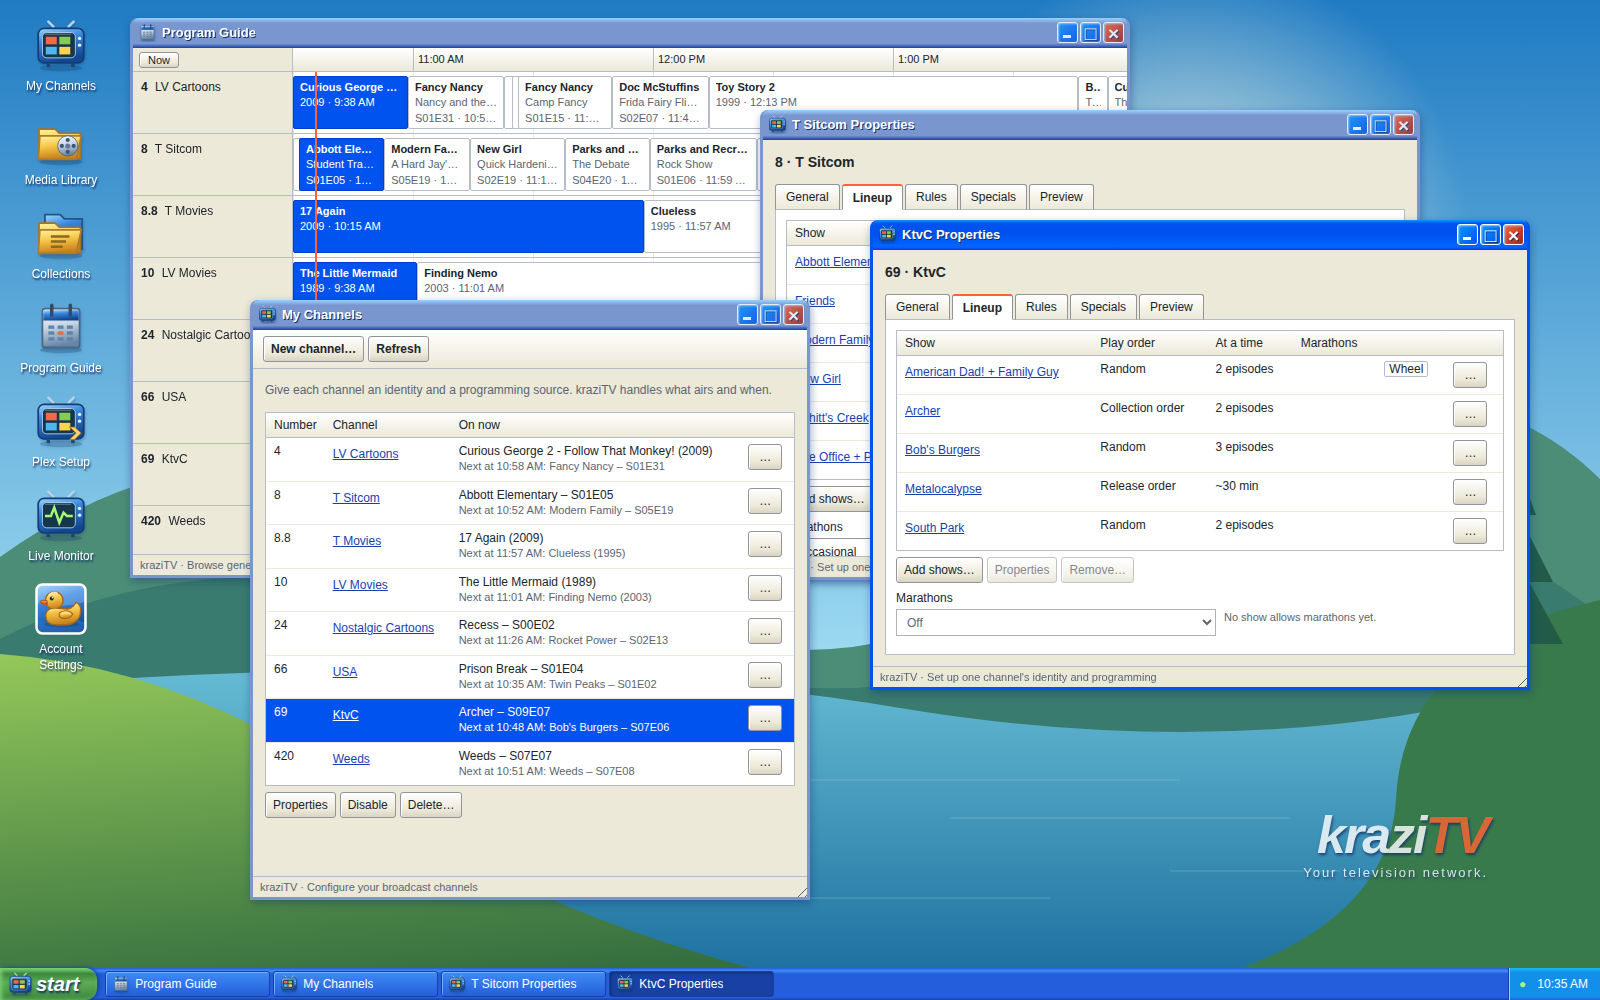
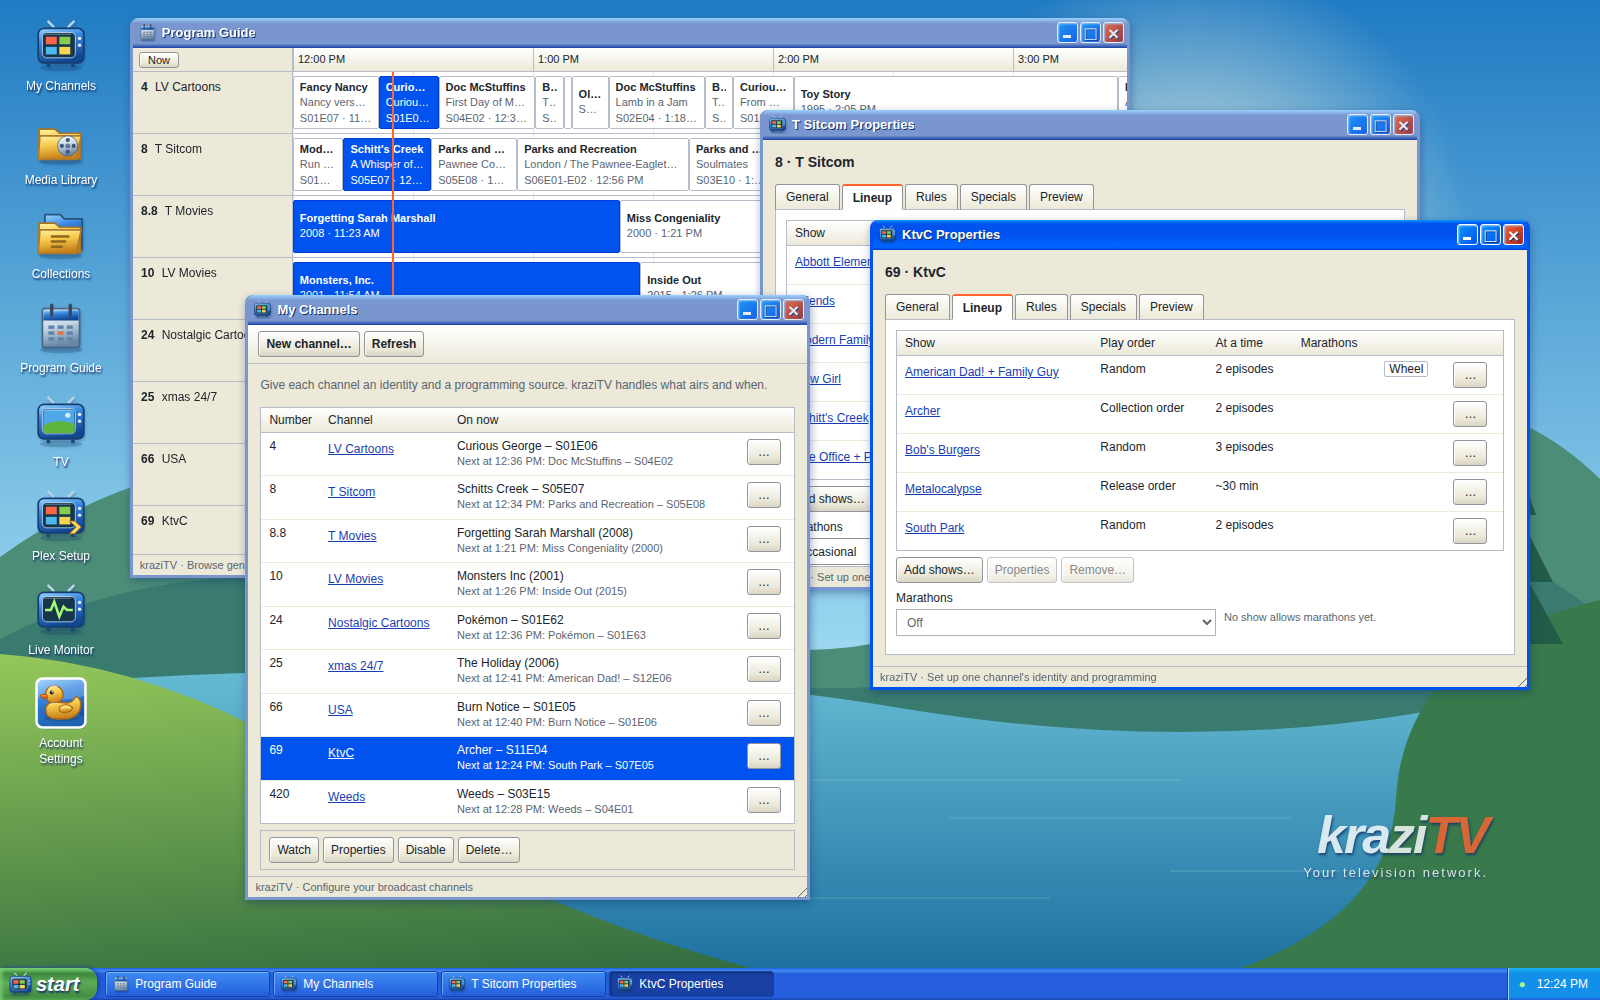
docs(readme): run the published image and tell the truth about TV and scans
README and the running guide run ghcr.io/ridloncmr/krazitv:latest, say TV
and the scan prompt exist and collections are suggested, drop stale limits,
and set PUBLIC_BASE_URL beside HOST for from-source installs. The four
screenshots are recaptured with TV on the desktop. Completes POLISH-016.

diff --git a/README.md b/README.md
@@ -26,8 +26,8 @@ and kraziTV keeps programming them for as long as it runs.
 - **Specials at exact times.** Book a movie for 8:00 PM Friday. Regular
   programming wraps up cleanly before it starts.
 - **Your library, understood.** With a free TMDB key, kraziTV recognizes your
-  shows, seasons, and episodes from file and folder names, and builds
-  collections for every series, franchise, and genre automatically.
+  shows, seasons, and episodes from file and folder names, and suggests a
+  collection for every series, franchise, and genre. Keep the ones you want.
 - **A full guide in Plex.** kraziTV shows up in Plex as a TV tuner with a
   program guide, so it works on every TV, phone, and tablet Plex does.
 - **One stream per channel.** Everyone watching a channel shares the same
@@ -37,13 +37,13 @@ and kraziTV keeps programming them for as long as it runs.
 
 Every channel's next day, at a glance:
 
-![The Program Guide, showing eight channels' schedules](docs/images/guide.png)
+![The Program Guide, showing every channel's schedule](docs/images/guide.png)
 
 Shows, play order, and rules, each in its own Properties window:
 
 ![A show's properties over a channel's lineup, with another channel's rules behind](docs/images/programming.png)
 
-Scan your folders and let kraziTV sort them into collections:
+Scan your folders and keep the collections kraziTV suggests:
 
 ![Media Library, the automatic Collections, and one collection's members](docs/images/library.png)
 
@@ -52,24 +52,25 @@ Scan your folders and let kraziTV sort them into collections:
 kraziTV runs anywhere Docker does:
 
 ```bash
-docker build -t krazitv .
 docker run -d --name krazitv -p 3000:3000 \
   -v krazitv-data:/data \
   -v /path/to/your/media:/media:ro \
   -e PUBLIC_BASE_URL=http://192.168.1.10:3000 \
   -e KRAZITV_PROGRAMMING_TIMEZONE=America/New_York \
-  krazitv
+  ghcr.io/ridloncmr/krazitv:latest
 ```
 
 Replace `192.168.1.10` with your server's address, open it in a browser, and
 create your account. Then:
 
-1. **Media Library:** add `/media` and scan it.
+1. **Media Library:** add `/media`, and scan it when kraziTV offers.
 2. **My Channels:** create a channel and add shows to its lineup.
 3. **Plex Setup:** copy the two addresses into Plex's **Live TV & DVR**
    settings.
 
 That's it. Your channels are in Plex Live TV.
+
+Prefer to build kraziTV from source? See [CONTRIBUTING.md](CONTRIBUTING.md).
 
 The [setup guide](docs/knowledge_base/running-krazitv.md) covers running
 without Docker, connecting Plex step by step, and every setting.
@@ -79,7 +80,7 @@ without Docker, connecting Plex step by step, and every setting.
 kraziTV is young and actively developed. Today:
 
 - It works with **Plex**. Jellyfin support is planned.
-- You watch through Plex. Watching in the browser is planned.
+- Watch in Plex, or in the browser with the TV program.
 - Every channel is re-encoded to 1080p H.264, so watching uses some CPU.
 - It is meant for a **home network**. Anyone who can reach it can watch its
   channels, so don't expose it to the internet.

diff --git a/docs/knowledge_base/running-krazitv.md b/docs/knowledge_base/running-krazitv.md
@@ -5,16 +5,17 @@ README's quick start is the short version.
 
 ## Install With Docker
 
-The image includes kraziTV, its web app, and FFmpeg.
+The image includes kraziTV, its web app, and FFmpeg. Every kraziTV release
+publishes it to the GitHub Container Registry as
+`ghcr.io/ridloncmr/krazitv`.
 
 ```bash
-docker build -t krazitv .
 docker run -d --name krazitv -p 3000:3000 \
   -v krazitv-data:/data \
   -v /path/to/media:/media:ro \
   -e PUBLIC_BASE_URL=http://192.168.1.10:3000 \
   -e KRAZITV_PROGRAMMING_TIMEZONE=America/New_York \
-  krazitv
+  ghcr.io/ridloncmr/krazitv:latest
 ```
 
 - Set `PUBLIC_BASE_URL` to the address of the machine running kraziTV, and
@@ -26,6 +27,9 @@ docker run -d --name krazitv -p 3000:3000 \
 - Data lives in the `/data` volume. The server runs as the image's `node`
   user (uid 1000), so a host folder mounted there must be writable by it.
 - Mount media read-only. kraziTV never changes media files.
+- To build the image yourself, run `docker build -t krazitv .` in a checkout
+  and use `krazitv` as the image name. [CONTRIBUTING.md](../../CONTRIBUTING.md)
+  covers working from source.
 
 ## Install From Source
 
@@ -43,8 +47,10 @@ npm start --workspace @krazitv/server
 
 kraziTV serves the web app and everything else on one port, by default
 `http://127.0.0.1:3000`
-([ADR 0019](../adrs/0019-same-origin-web-app-and-container.md)). Set
-`HOST=0.0.0.0` to reach it from other devices.
+([ADR 0019](../adrs/0019-same-origin-web-app-and-container.md)). To reach it
+from other devices, set `HOST=0.0.0.0` and set `PUBLIC_BASE_URL` to the
+address they use, such as `http://192.168.1.10:3000`. kraziTV only accepts
+changes from that address.
 
 ## First Steps
 
@@ -57,7 +63,9 @@ kraziTV serves the web app and everything else on one port, by default
 4. In **My Channels**, create a channel and add shows to its **Lineup**.
    Add **Rules** for times and seasons and **Specials** for exact times.
 5. Check **Program Guide** to see what will air.
-6. Open **Plex Setup** for the two addresses Plex needs.
+6. Open **TV** to watch a channel in the browser. **Watch** in My Channels,
+   or a channel's name in the Program Guide, opens TV on that channel.
+7. Open **Plex Setup** for the two addresses Plex needs.
 
 ## Connect Plex
 
@@ -119,6 +127,4 @@ replaces the password, and logs every browser out. kraziTV may keep running.
 ## Current Limits
 
 - Plex only; Jellyfin is planned.
-- No playback in the browser yet.
 - Every channel is re-encoded to 1080p, 30 fps, H.264 with AAC audio.
-- If FFmpeg fails mid-program, viewers' streams end and they must tune again.

diff --git a/docs/implementation_plan/004-release-polish/0003-release-readiness.md b/docs/implementation_plan/004-release-polish/0003-release-readiness.md
@@ -2,12 +2,12 @@
 
 <!-- plan-progress:start: generated by `npm run plan:status` from ticket Status blocks; do not edit -->
 
-Progress: 10 of 11 tickets complete.
+Progress: 11 of 11 tickets complete.
 
 | Ticket     | Title                                                     | Status                 |
 | ---------- | --------------------------------------------------------- | ---------------------- |
 | POLISH-015 | Publish the image on a GitHub Release                     | Complete on 2026-10-28 |
-| POLISH-016 | README and running guide tell the truth                   | Open                   |
+| POLISH-016 | README and running guide tell the truth                   | Complete on 2026-10-29 |
 | POLISH-017 | CONTRIBUTING and the exit gate match CI                   | Complete on 2026-10-29 |
 | POLISH-018 | Statuses, links, index, and vocabulary                    | Complete on 2026-10-29 |
 | POLISH-019 | Decide the count rule and bring the exceptions up to date | Complete on 2026-10-28 |
@@ -79,6 +79,15 @@ README run command start kraziTV on a clean machine and show the logon screen.
 **Docs impact**: README quick start (POLISH-016); ADR 0019 unchanged.
 
 ### POLISH-016: README and running guide tell the truth
+
+**Status**
+
+Complete on 2026-10-29. The README quick start and the running guide's Docker
+section run `ghcr.io/ridloncmr/krazitv:latest`, both say TV and the scan prompt
+exist, collections are suggested, from-source installs set `PUBLIC_BASE_URL`
+beside `HOST`, and the four screenshots were recaptured from the live app with
+TV on the desktop. Verifying the published image on a clean machine is left to
+the orchestrator once the GHCR package is public.
 
 **Goal**: A first-time user who follows the README alone installs and sees
 what the app can do.

diff --git a/docs/implementation_plan/README.md b/docs/implementation_plan/README.md
@@ -67,7 +67,7 @@ at the top of each plan are generated from ticket Status blocks by
 
 - [Release Polish Spec 0001 Implementation Plan: First-Run Flow](004-release-polish/0001-first-run-flow.md) - 8 of 8 tickets complete
 - [Release Polish Spec 0002 Implementation Plan: Owner-Facing Words](004-release-polish/0002-owner-facing-words.md) - 6 of 6 tickets complete
-- [Release Polish Spec 0003 Implementation Plan: Release Readiness](004-release-polish/0003-release-readiness.md) - 10 of 11 tickets complete
+- [Release Polish Spec 0003 Implementation Plan: Release Readiness](004-release-polish/0003-release-readiness.md) - 11 of 11 tickets complete
 
 <!-- plan-index:end -->
 

diff --git a/docs/specs/features/004-release-polish/README.md b/docs/specs/features/004-release-polish/README.md
@@ -10,6 +10,8 @@ its screenshot, and checked the code and docs against `AGENTS.md`. The audit
 report itself lives outside git under `data/polish-audit/`; everything a
 contributor needs is restated in the specs and plans here.
 
+This feature defines the bar for kraziTV 1.0.
+
 ## Decisions
 
 Settled with the owner on 2026-10-28 before the work was split up. Tickets cite
